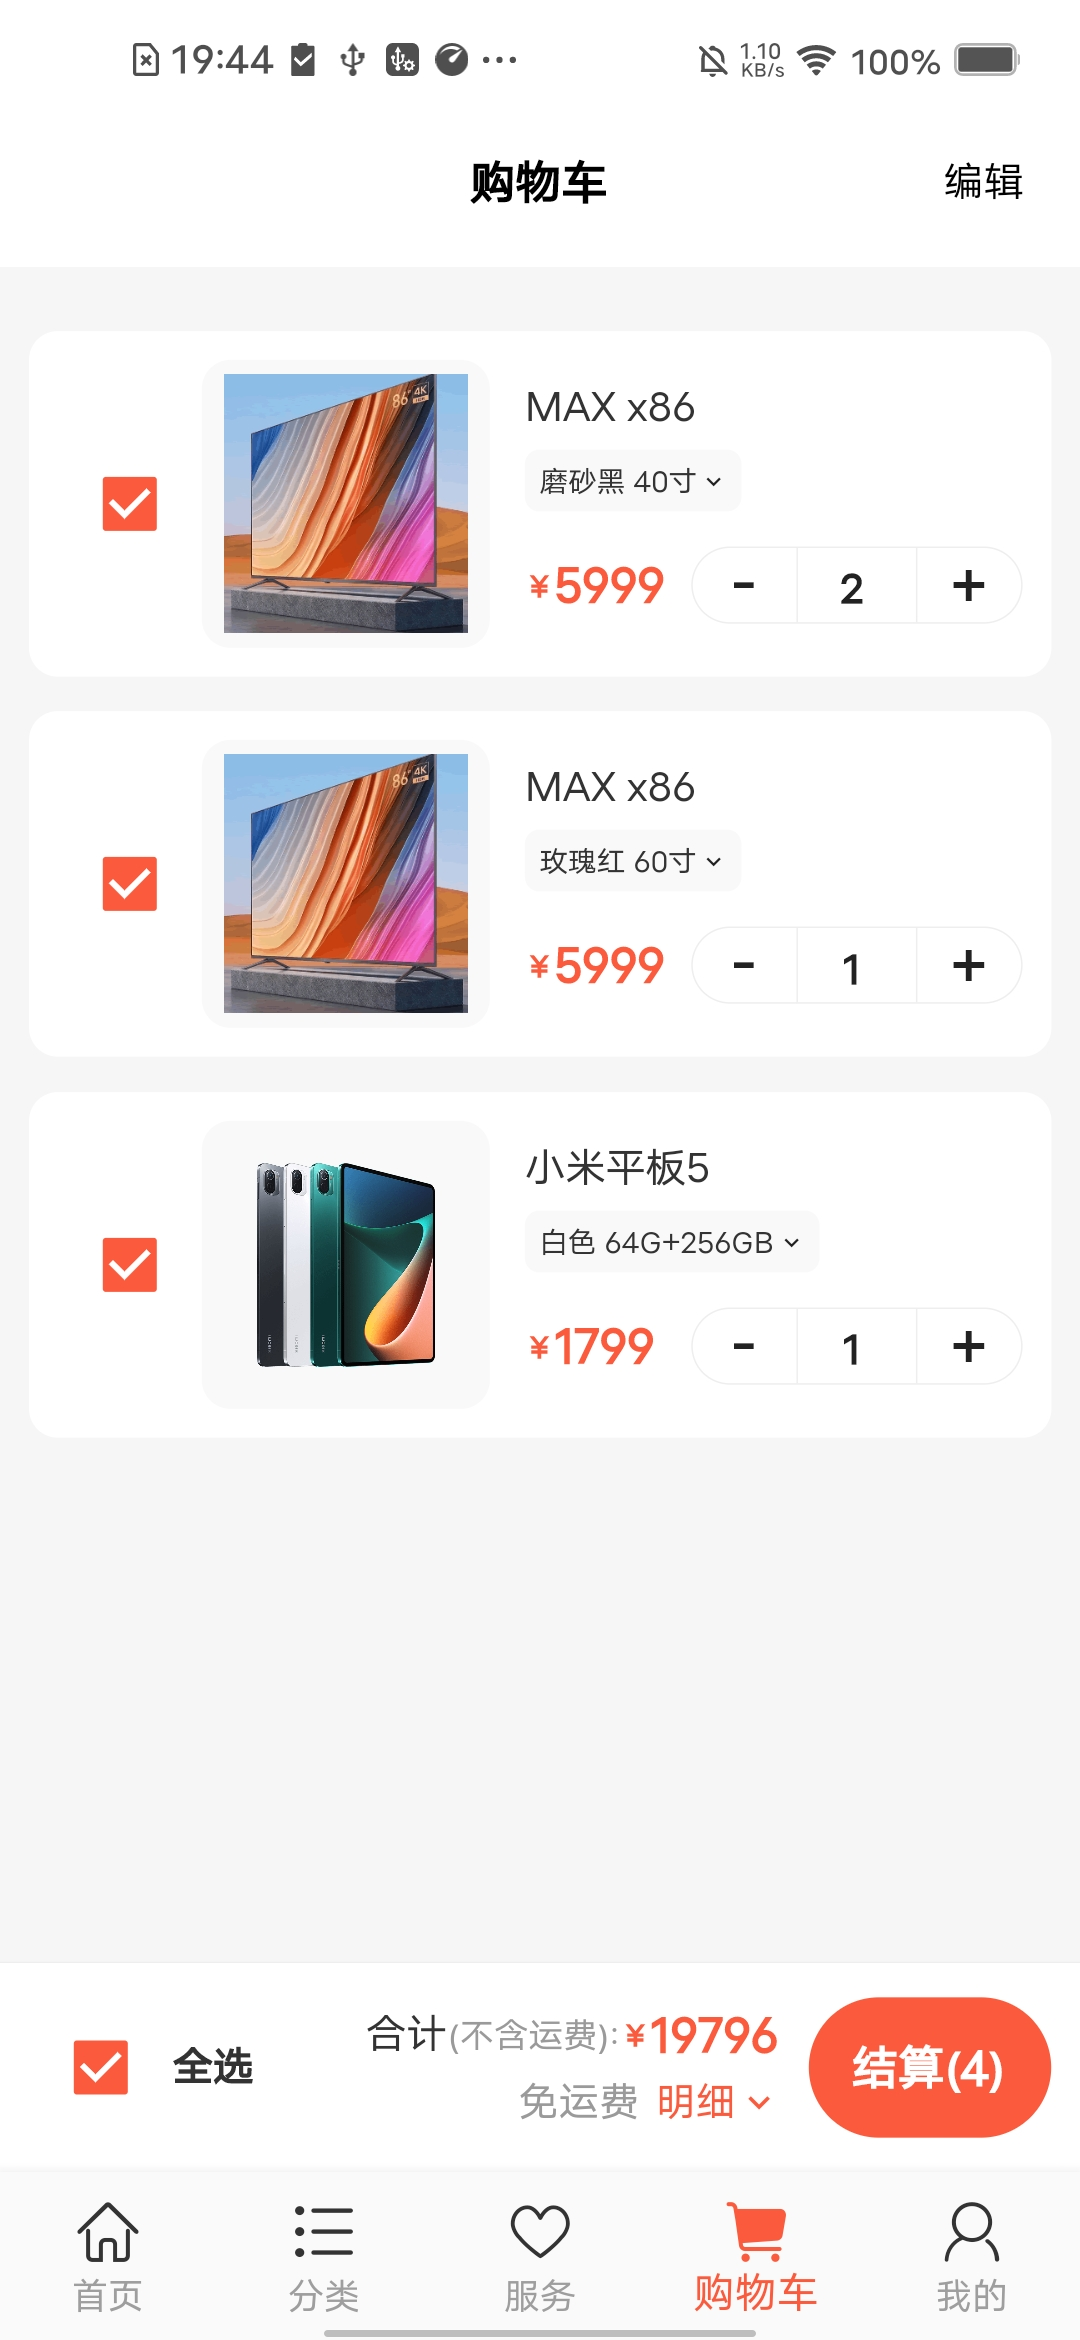
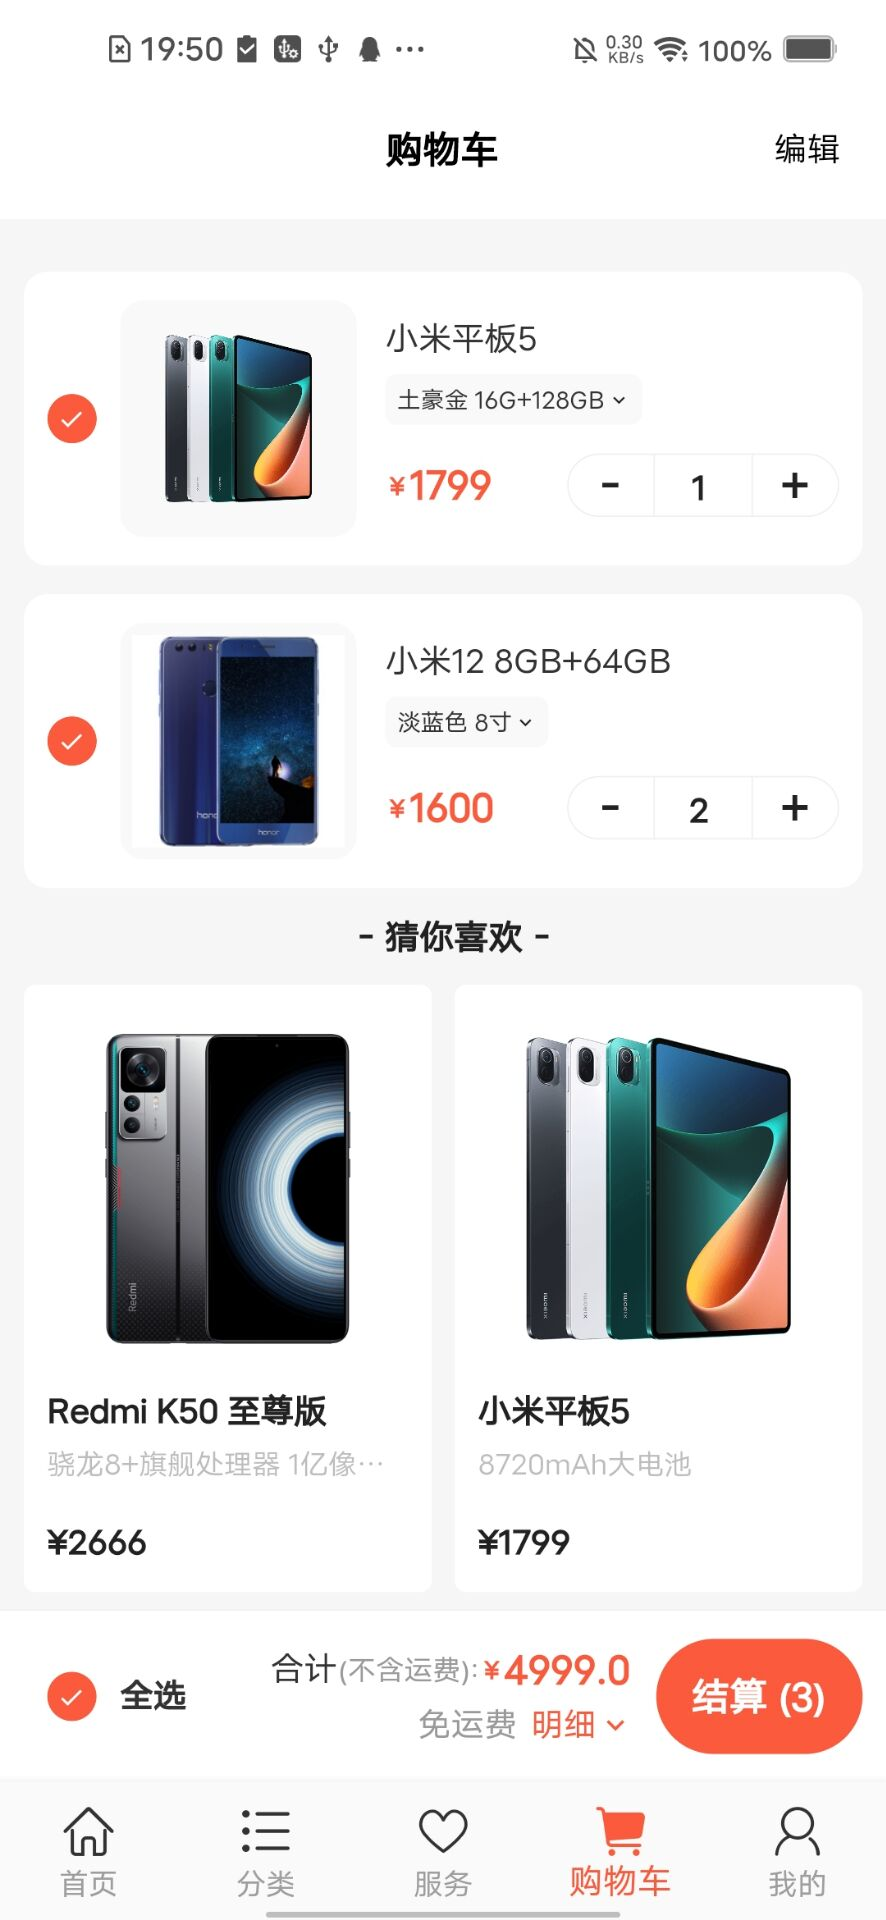
更换上一步部分功能截图，更新README.md内容，其他调整

diff --git a/lib/app/modules/goodsContent/views/goods_content_info_view.dart b/lib/app/modules/goodsContent/views/goods_content_info_view.dart
@@ -147,11 +147,14 @@ class GoodsContentInfoView extends GetView {
           Row(
             mainAxisAlignment: MainAxisAlignment.spaceBetween,
             children: [
-              Text("${controller.model.value.title}",
-                  // "Redmi Note 12 Pro",
-                  style: TextStyle(
-                      fontWeight: FontWeight.bold,
-                      fontSize: DoScreenAdapter.fs(16))),
+              Expanded(
+                child: Text("${controller.model.value.title}",
+                    maxLines: 2,
+                    overflow: TextOverflow.ellipsis,
+                    style: TextStyle(
+                        fontWeight: FontWeight.bold,
+                        fontSize: DoScreenAdapter.fs(16))),
+              ),
               IconButton(
                   onPressed: () {},
                   icon: const Icon(

diff --git a/README.md b/README.md
@@ -2,9 +2,14 @@
 
 一款用Flutter编写的小米商城app
 
->项目不断更新中，部分功能使用的在线接口api，部分使用的本地存储
+> 项目目前已经完成从商品列表->商品详情->购物车->结算->支付->生成订单这条主线功能以及有关联的附属功能;
+> 还在不断更新迭代中，部分功能使用的在线接口api，部分使用的本地存储, 后续有意自己用Python实现后台替换成自己的api;
+> 功能的实现努力做到更好，但仍然有许多有待完善的地方，希望可以分享交流指正，查漏补缺。
 
 ## Show
+
+> 主页面展示分别为iOS与Android双端，其他功能页面展示仅以iOS手机截图为例
+
 ### iOS
 
 <div align=center>
@@ -34,6 +39,20 @@
 ## Done
 ### 版本更新记录
 
+#### v1.1.0：2023-03-28
+* 手机验证码登录
+* 账号密码登录
+* 注册
+* 设置
+* 地址管理
+* 结算
+* 支付
+* 订单列表
+* 订单详情
+* Salt接口签名较验
+* 其他...
+
+
 #### v1.0.0：2023-03-19
 *  首页
 *  分类
@@ -43,49 +62,64 @@
 *  商品列表页
 *  搜索
 *  商品详情页
-*  商品首页展示->查看详情->添加到购物车->在购物车修改等主线完成，后续功能牵涉后台，待定
 
 ### 目录结构
 
->项目基于`Get-Cli`脚手架搭建，是整个项目的核心框架，涉及项目搭建，路由，状态管理，组件使用等功能
+>项目基于`Get-Cli`脚手架搭建，Get是整个项目的核心插件，涉及项目搭建，路由，状态管理，组件使用等功能
 
-|   一级目录  |  二级目录   |   文件名  |   描述    |
+|  一级目录  |  二级目录   |   文件名  |   描述    |
 ---|:--:|:--:|:---:|
-|  assets     |               |    |  素材目录 | 
-|  assets     |  images   |    |  图片素材库 | 
-|               |    fonts    |    |   字体库(包含阿里巴巴图标字体素材)| 
-|   app       |               |    |  app目录 | 
-|               |   components   |   |  抽取全局通用组件目录 | 
-|                |    models         |    |  模型类目录 | 
-|                |    modules        |                      | 页面组件目录 | 
-|                |           |   tabs                    | tabs管理页 | 
-|                |           |   login                  | 登录 | 
-|                |           |   home                  | 首页 | 
-|                |           |   category              |  分类| 
-|                |           |   service                | 服务 | 
-|                |           |   cart                    | 购物车 | 
-|                |           |   me                     | 我的 | 
-|                |           |   goodsList           | 商品列表 | 
-|                |           |   goodsContent     | 商品详情 | 
-|                |           |   search               | 搜索 | 
-|                |           |   setting               |  设置| 
-|                |           |   customerService  | 客服 | 
-|                |           |   officialService     | 官方服务 | 
-|               |       routes        |                                         |  路由配置目录   | 
-|               |       services      |                                        | 服务及工具类目录 | 
-|               |                        |  app_cartService.dart          | 购物车功能服务类，基于app_sharedPreferences.dart的封装 | 
-|               |                        |  app_colors .dart                | 项目常用颜色管理类 | 
-|               |                        |  app_fontIcons.dart             | 基于阿里巴巴图标字体素材功能类 | 
-|               |                        |  app_keepAliveWrapper.dart  | 页面保活类 | 
-|               |                        |  app_network.dart                  | 网络类，基于dio的封装 | 
-|               |                        |  app_screenAdapter.dart        | 项目适配类，基于flutter_screenutil的封装 | 
-|               |                        |  app_searchService.dart         | 搜索功能服务类，基于app_sharedPreferences.dart的封装 | 
-|               |                        |  app_sharedPreferences.dart  | 基于shared_preferences的封装 | 
-| main.dart  |        |   |  项目入口文件 | 
-
+| assets|        |    | 素材目录| 
+| assets| images |    | 图片素材库 | 
+|      | fonts     |  | 字体库(包含阿里巴巴图标字体素材)| 
+| app  |           |  | app目录 | 
+|      | components|  | 抽取全局通用组件目录 | 
+|      | models    |  | 模型类目录 | 
+|      | modules   |  | 页面组件目录 | 
+|      |           |   tabs               | tabs管理页 | 
+|      |           |   auth               | 登录及注册相关 | 
+|      |           |   home               | 首页 | 
+|      |           |   category           |  分类| 
+|      |           |   service            | 服务 | 
+|      |           |   cart               | 购物车 | 
+|      |           |   me                 | 我的 | 
+|      |           |   goodsList          | 商品列表 | 
+|      |           |   goodsContent       | 商品详情 | 
+|      |           |   search             | 搜索 | 
+|      |           |   checkout           | 确认订单-结算 | 
+|      |           |   payment            | 支付 | 
+|      |           |   orderList          | 商城订单列表 | 
+|      |           |   orderContent       | 订单详情 | 
+|      |           |   setting            | 设置| 
+|      |           |   address            | 地址管理、新建地址、修改地址 | 
+|      |           |   profile            | 个人资料 | 
+|      |           |   personalHomepage   | 个人主页 | 
+|      |           |   customerService    | 客服 | 
+|      |           |   officialService    | 官方服务 | 
+|      |           |   vipCode            | 我的会员码 | 
+|      |           |   vipMedal           | 小米会员勋章 | 
+|      |           |   messageNotification| 消息通知 | 
+|      |           |   message            | 消息 | 
+|      |           |   afterSale          | 售后服务 | 
+|      | routes    |                       |  路由配置目录   | 
+|      | services  |                       | 服务及工具类目录 | 
+|      |    |  app_cartService.dart        | 购物车功能服务类，基于app_sharedPreferences.dart的封装 | 
+|      |    |  app_colors .dart            | 项目常用颜色管理类 | 
+|      |    |  app_fontIcons.dart          | 基于阿里巴巴图标字体素材功能类 | 
+|      |    |  app_keepAliveWrapper.dart   | 页面保活类 | 
+|      |    |  app_network.dart            | 网络类，基于dio的封装 | 
+|      |    |  app_screenAdapter.dart      | 项目适配类，基于flutter_screenutil的封装 | 
+|      |    |  app_searchService.dart      | 搜索功能服务类，基于app_sharedPreferences.dart的封装 | 
+|      |    |  app_sharedPreferences.dart  | 基于shared_preferences的封装 | 
+|      |    |  app_signService.dart        | 签名生成获取类 | 
+|      |    |  app_userService.dart        | 登录后获取的用户信息类 | 
+| main.dart |   |   |  项目入口文件 | 
 
 
 ### 使用插件
+
+> 后续功能会增加插件的使用
+
 ```
   dio: ^5.0.2
   get: ^4.6.5
@@ -94,17 +128,42 @@
   flutter_swiper_view: ^1.1.8
   flutter_staggered_grid_view: ^0.6.2
   flutter_html: ^3.0.0-alpha.5
+  flutter_spinkit: ^5.1.0
+  flutter_easyloading: ^3.0.3
   pull_to_refresh: ^2.0.0
+  pin_code_fields: ^7.4.0
   roundcheckbox: ^2.0.5
+  city_pickers: ^1.2.1
+  crypto: ^3.0.2
+  flutter_swipe_action_cell: ^3.1.0
 ```
 
 ## ToDo
 
-- [x] 商品列表过滤功能要更新
-- [x] 商品详情页html内容在android手机上有空白间隔
-- [x] 购物车删除功能
-- [x] 我的对应的子功能
-- [x] 其他功能
+### Improve
+- [x] 商品列表：过滤功能要更新,包含drawer的展示内容;
+- [x] 商品详情页：详情及推荐头部切换(包含点击与滑动)时，二级头部(商品介绍与规格参数)展示有细微误差,其中包含了二级头部内容长度不同时的问题待修正;
+- [x] 商品详情页：html内容在android手机上展示有空白间隔;
+- [x] 商品详情页中点击购物车，在购物车推荐列表再点击商品进入购物车，如此循环嵌套，其中涉及的商品详情页及购物车整体结构还需要完善;
+- [x] 以上场景中，对于购物车数据的刷新也需要在有了结论后再完善优化;
+- [x] 其他各种细节完善，如二级弹框确认等;
+
+### Add
+- [x] 在线网页加载插件
+- [x] 更换图标
+- [x] app启动页
+- [x] 闪屏活动页功能(可配置)
+- [x] 扫码功能
+- [x] 拍照及图像预览功能
+- [x] 视频录制及播放功能
+- [x] 多语言国际化与本地化功能
+- [x] 暗黑模式功能
+- [x] 更换颜色皮肤功能
+- [x] 集成地图定位
+- [x] 集成微信及支付宝支付
+- [x] 集成运营商一键登录
+- [x] 集成第三方登录
+- [x] 集成埋点统计
 
 
 
